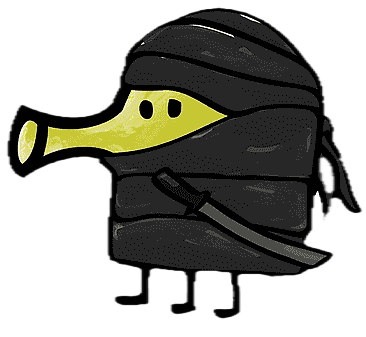
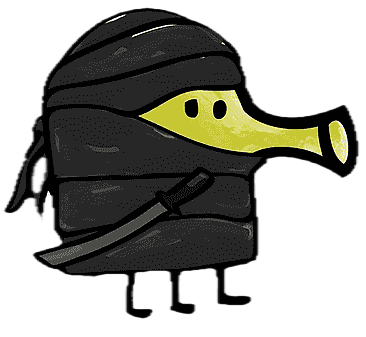
updated collisions and assests

diff --git a/src/main/java/org/cis1200/doodlejump/GameRegion.java b/src/main/java/org/cis1200/doodlejump/GameRegion.java
@@ -16,9 +16,9 @@ public class GameRegion extends JPanel {
 
     private final JLabel status;
 
-    public static final int COURT_WIDTH = 1000;
+    public static final int COURT_WIDTH = 800;
     public static final int COURT_HEIGHT = 1000;
-    public static final int PLAYER_VEL = 6;
+    public static final int PLAYER_VEL = 20;
 
 
     public static final int INTERVAL = 35;
@@ -61,7 +61,7 @@ public class GameRegion extends JPanel {
 
         int max_count = 5;
         for(int count = 0; count <= max_count; count++) {
-            int py = 200 * count;
+            int py = 150 * count + 20;
             Platform newPlatform1 = new
                     Platform(random.next(COURT_WIDTH), py, COURT_WIDTH, COURT_HEIGHT);
             Platform newPlatform2 = new
@@ -91,6 +91,7 @@ public class GameRegion extends JPanel {
         if (playing) {
             player.move();
 
+            // TODO: optimize collision checking
             for (List<Platform> platforms : platforms) {
                 for (Platform platform : platforms) {
                     player.interact(platform);;

diff --git a/src/main/java/org/cis1200/doodlejump/Player.java b/src/main/java/org/cis1200/doodlejump/Player.java
@@ -10,11 +10,11 @@ public class Player extends GameObj{
     public static final String IMG_FILE_L = "files/doodleJumpPlayerLeft.png";
     public static final String IMG_FILE_R = "files/doodleJumpPlayerRight.png";
     public static final int SIZE = 50;
-    public static final int INIT_POS_X = 500;
-    public static final int INIT_POS_Y = 500;
+    public static final int INIT_POS_X = 250;
+    public static final int INIT_POS_Y = 950;
     public static final int INIT_VEL_X = 0;
-    public static final int INIT_VEL_Y = -10;
-    public static final int INIT_ACCEL_Y = 1;
+    public static final int INIT_VEL_Y = -25;
+    public static final int INIT_ACCEL_Y = 2;
     public static final int INIT_ACCEL_X = 0;
     public static final int INIT_HP = 1;
     public static final int AFFECTVY = 0;
@@ -74,5 +74,6 @@ public class Player extends GameObj{
             g.drawImage(img_l, this.getPx(), this.getPy(), this.getWidth(),
                     this.getHeight(), null);
         }
+        g.drawRect(this.getPx(), this.getPy(), this.getWidth(), this.getHeight());
     }
 }

diff --git a/src/main/java/org/cis1200/doodlejump/Platform.java b/src/main/java/org/cis1200/doodlejump/Platform.java
@@ -7,14 +7,14 @@ import javax.imageio.ImageIO;
 
 public class Platform extends GameObj {
     public static final String IMG_FILE = "files/platform.png";
-    public static final int WIDTH = 200;
-    public static final int HEIGHT = 100;
+    public static final int WIDTH = 100;
+    public static final int HEIGHT = 20;
     public static final int INIT_VEL_X = 0;
     public static final int INIT_VEL_Y = 0;
     public static final int INIT_ACCEL_X = 0;
     public static final int INIT_ACCEL_Y = 0;
     public static final int HP = 1;
-    public static final int AFFECTVY = -10;
+    public static final int AFFECTVY = -25;
 
     public static BufferedImage img;
 
@@ -38,5 +38,7 @@ public class Platform extends GameObj {
     @Override
     public void draw(Graphics g) {
         g.drawImage(img, this.getPx(), this.getPy(), this.getWidth(), this.getHeight(), null);
+        g.setColor(Color.RED);
+        g.drawRect(this.getPx(), this.getPy(), this.getWidth(), this.getHeight());
     }
 }

diff --git a/src/main/java/org/cis1200/doodlejump/GameObj.java b/src/main/java/org/cis1200/doodlejump/GameObj.java
@@ -1,6 +1,7 @@
 package org.cis1200.doodlejump;
 
-import java.awt.Graphics;
+import javax.swing.*;
+import java.awt.*;
 
 public abstract class GameObj {
     /*
